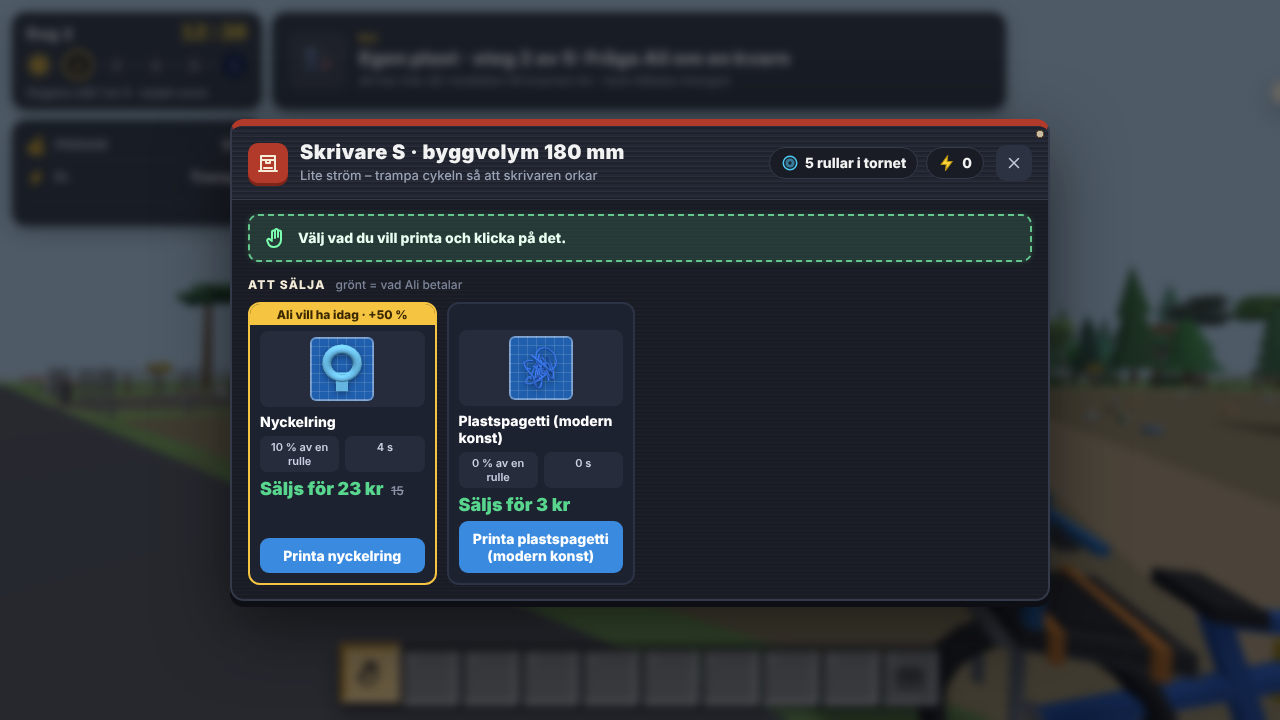
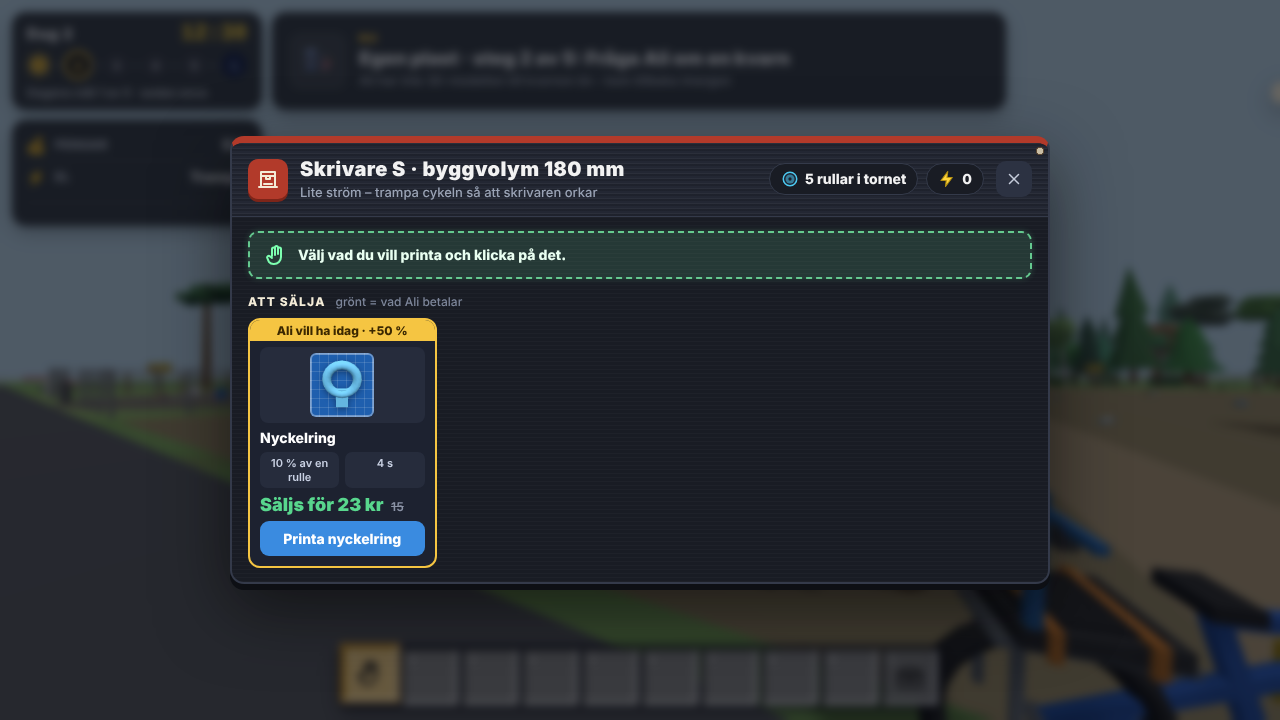
EM: plastspagetti går inte att printa, verktyg märks Att bära, skärmdump av alla printkort
Claude-Session: https://claude.ai/code/session_014156cp9JxbGsW1A8ZsF5gD

Changed region(s): [[0.1875, 0.1528, 0.8438, 0.8556]]

diff --git a/spel/printa-hem/spel.js b/spel/printa-hem/spel.js
@@ -7422,7 +7422,7 @@ function printKort(x, sk, { forStor, kanInte, saknarRulle }) {
   const syfte = salj ? `<div class="pk-pris salj">Säljs för ${krT(prisNu(x.id))} kr${prisNu(x.id) !== v.pris ? ` <s>${krT(v.pris)}</s>` : ''}</div>`
     : x.flik === 'gava' ? `<div class="pk-pris till"><b>${x.id === aktivGava() ? 'Gåva till Rolf' : 'Gåva'}</b><small>${rens(String(x.info || '').replace(/^[^\p{L}]+/u, ''))}</small></div>`
     : x.flik === 'hem' ? `<div class="pk-pris till"><b>Till skjulet</b><small>${x.id === 'sang' ? 'Ställ den i skjulet' : v?.lyx ? 'Ställ den i din fristad' : MASKINER[x.id]?.hem ? 'Klicka på skjulet med den i handen' : 'Ställ den där du vill'}</small></div>`
-    : `<div class="pk-pris till"><b>Till fabriken</b><small>${rens(MONTERA_TIPS[k] ? MONTERA_TIPS[k].replace(/^[^\p{L}]+/u, '').replace(/^.*? – /, '') : TA_PA[k] ? 'Klicka för att ta på dig den' : MONTERA[k] ? MONTERA[k].namn : 'Ställ den på gården')}</small></div>`;
+    : `<div class="pk-pris till"><b>${TA_PA[k] ? 'Att bära' : 'Till fabriken'}</b><small>${rens(MONTERA_TIPS[k] ? MONTERA_TIPS[k].replace(/^[^\p{L}]+/u, '').replace(/^.*? – /, '') : TA_PA[k] ? 'Klicka för att ta på dig den' : MONTERA[k] ? MONTERA[k].namn : 'Ställ den på gården')}</small></div>`;
   const hinder = forStor(x) ? `Kräver skrivare ${STORLEK_NAMN[storlekFor(x.id)]}` : saknarRulle(x) ? `Saknar ${nivaText(saknarRulle(x)).toLowerCase()}` : kanInte(x) ? 'Plasten fylls på – printen startar och pausar tills kvarnen fyller på' : '';
   return `<div class="pk${ali ? ' ali' : ''}" data-kort>${ali ? `<div class="pk-list">Ali vill ha idag · +${Math.round((ALI_VILL_BONUS - 1) * 100)} %</div>` : '<div class="pk-list tom"></div>'}
     <div class="pk-bild">${bp ? bpImg(k, 64) : tumme(k, 64) + '<span class="pk-igen" title="Har printats förut">⟳</span>'}</div>
@@ -7445,7 +7445,7 @@ function oppnaPrintMeny(sk) {
   const lagg = (flik, id, attr, ikon, namn, gram, tid, info, pris) => saker.push({ flik, id, attr, ikon, namn, gram, tid, info, pris });
   const petg = !!genNiva(sk), gn = genNiva(sk);
   for (const [id, v] of Object.entries(VAROR)) {
-    if (v.kop) continue;
+    if (v.kop || !v.gram) continue;   /* A-041: plastspagetti (gram 0) går inte att printa */
     if (petg && v.tradgard) { if (v.niva === gn && harRecept(id) && v.syns()) lagg('gava', id, `data-vara="${id}"`, ikonHtml(id, 54), v.namn, v.gram, v.tid, '🌹 Till Birgittas trädgård bakom tippen'); continue; }
     if (petg) { if (v.niva === gn && harRecept(id)) lagg('salj', id, `data-vara="${id}"`, ikonHtml(id, 54), v.namn, v.gram, v.tid, `🪙 ${prisNu(id)} kr hos Ali idag${id === aliVill() ? ' ⭐ Ali vill ha den idag (+50 %)' : ''} · ${Math.round(v.pris / v.gram * RULLE)} kr per rulle röd PETG${v.trivsel ? ' · kan också ställas ut' : ''}`, prisNu(id)); continue; }
     if (v.niva === 2 || v.niva === 3) continue;   // röd PETG och kolfiber printas bara på sina egna skrivare

diff --git a/spel/printa-hem/index.html b/spel/printa-hem/index.html
@@ -10,28 +10,28 @@
 {
  "imports": {
   "three": "https://cdn.jsdelivr.net/npm/three@0.170.0/build/three.module.js",
-  "./balans.js": "./balans.js?v=3f98e63e79",
-  "./brand.js": "./brand.js?v=3f98e63e79",
-  "./gardplan.js": "./gardplan.js?v=3f98e63e79",
-  "./hud.js": "./hud.js?v=3f98e63e79",
-  "./intro-bilder.js": "./intro-bilder.js?v=3f98e63e79",
-  "./miljo.js": "./miljo.js?v=3f98e63e79",
-  "./regelvakt.js": "./regelvakt.js?v=3f98e63e79",
-  "./spel.js": "./spel.js?v=3f98e63e79",
-  "./ui-kit.js": "./ui-kit.js?v=3f98e63e79",
-  "../../delat/fp/index.js": "../../delat/fp/index.js?v=3f98e63e79",
-  "../../delat/fp/interaktion.js": "../../delat/fp/interaktion.js?v=3f98e63e79",
-  "../../delat/fp/magi.js": "../../delat/fp/magi.js?v=3f98e63e79",
-  "../../delat/fp/smuts.js": "../../delat/fp/smuts.js?v=3f98e63e79",
-  "../../delat/fp/spelare.js": "../../delat/fp/spelare.js?v=3f98e63e79",
-  "../../delat/fp/system.js": "../../delat/fp/system.js?v=3f98e63e79",
-  "../../delat/fp/ui.js": "../../delat/fp/ui.js?v=3f98e63e79",
-  "../../delat/motor.js": "../../delat/motor.js?v=3f98e63e79"
+  "./balans.js": "./balans.js?v=75e7415a6d",
+  "./brand.js": "./brand.js?v=75e7415a6d",
+  "./gardplan.js": "./gardplan.js?v=75e7415a6d",
+  "./hud.js": "./hud.js?v=75e7415a6d",
+  "./intro-bilder.js": "./intro-bilder.js?v=75e7415a6d",
+  "./miljo.js": "./miljo.js?v=75e7415a6d",
+  "./regelvakt.js": "./regelvakt.js?v=75e7415a6d",
+  "./spel.js": "./spel.js?v=75e7415a6d",
+  "./ui-kit.js": "./ui-kit.js?v=75e7415a6d",
+  "../../delat/fp/index.js": "../../delat/fp/index.js?v=75e7415a6d",
+  "../../delat/fp/interaktion.js": "../../delat/fp/interaktion.js?v=75e7415a6d",
+  "../../delat/fp/magi.js": "../../delat/fp/magi.js?v=75e7415a6d",
+  "../../delat/fp/smuts.js": "../../delat/fp/smuts.js?v=75e7415a6d",
+  "../../delat/fp/spelare.js": "../../delat/fp/spelare.js?v=75e7415a6d",
+  "../../delat/fp/system.js": "../../delat/fp/system.js?v=75e7415a6d",
+  "../../delat/fp/ui.js": "../../delat/fp/ui.js?v=75e7415a6d",
+  "../../delat/motor.js": "../../delat/motor.js?v=75e7415a6d"
  }
 }
   </script>
 </head>
 <body>
-  <script type="module" src="spel.js?v=3f98e63e79"></script>
+  <script type="module" src="spel.js?v=75e7415a6d"></script>
 </body>
 </html>
